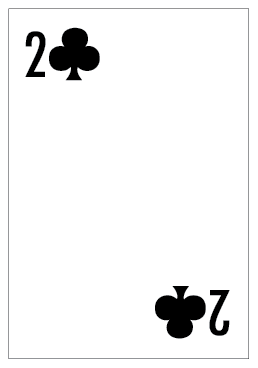
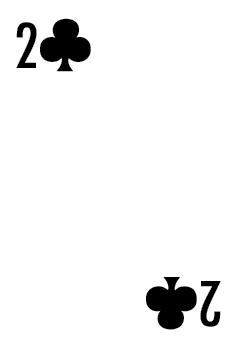
card set to contain, responsive design updated

Changed region(s): [[0.0292, 0.0, 0.9917, 1.0]]

diff --git a/styles.css b/styles.css
@@ -13,11 +13,13 @@ img {
 /* Page styling */
 body {
     margin: auto;
-    padding: 0;
+    width: 100%;
+    height: auto;
+    padding: 1em;
     background-image: url("images/studioBG1.png");
     background-size: cover;
-    background-position:center;
-    background-repeat: no-repeat;
+    background-position:center center;
+    background-repeat: repeat;
 }
 
 body.switch {
@@ -47,27 +49,46 @@ header {
     margin: 0 auto 2em auto;
 }
 
-header, body {
+header, footer {
+    top: 0;
     text-align: center;
+    padding: 25px;
+    margin: auto;
+    position: relative;
+}
+
+footer p {
+    margin: none;
+    padding: none;
 }
 
 #banner {
+
+    padding: 20px;
+    width: auto;
+    height: auto;
+    position: absolute;
+
     position: relative; 
-    margin: auto;
-    
-    background-image: url("images/studioBG1.png");
+    width: 100%;
+    height: 25%;
+
+    background-image: url("images/studioBGPure2.png");
+
     background-size: cover;
     background-position:center;
     background-repeat: no-repeat;
 
     align-items: center;
 	place-items: center;
+
+    transition: all 2s;
 }
 
 #banner.switch {
-    background-image: url("images/studioBG2.png");
+    background-image: url("images/studioBGPure1.png");
+    
     color: rgb(235, 235, 235);
-    transition: all 2s;
 }
 
 main {
@@ -76,46 +97,30 @@ main {
     margin: 1em auto;
 }
 
-main section {
-    display: flex;
-    flex-direction: column;
-    justify-content: center;
-
-    aspect-ratio: 2/3;
-    width: 100%;
-    max-width: 300px;
-
-    border: 2px rgb(0, 0, 0) dashed;
-    border-radius: 15px;
-    padding: 1em;
-
-    position: relative;
-}
-
 #projects {
         background-image: url("images/cardSpade2.png");
-        background-size: cover;
+        background-size: contain;
         background-position:center;
         background-repeat: no-repeat;
 }
 
 #research {
         background-image: url("images/cardQ.png");
-        background-size: cover;
+        background-size: contain;
         background-position:center;
         background-repeat: no-repeat;
 }
 
 #development {
         background-image: url("images/cardClub2.png");
-        background-size: cover;
+        background-size: contain;
         background-position:center;
         background-repeat: no-repeat;
 }
 
 #capstone {
         background-image: url("images/card6.png");
-        background-size: cover;
+        background-size: contain;
         background-position:center;
         background-repeat: no-repeat;
 }
@@ -130,8 +135,39 @@ nav ol, nav ul {
     padding-left: 0;
 }
 
-section {
-    margin-top: 1em;
+main section {
+    display: flex;
+    flex-direction: column;
+    justify-content: center;
+    text-align: center;
+
+    aspect-ratio: 2/3;
+    width: 100%;
+    max-width: 300px;
+
+    /*border: 2px rgb(0, 0, 0) dashed;*/
+    border-radius: 15px;
+
+    position: relative;
+    transition: all 1s;
+}
+
+h1, h2, h3 {
+    font-family: "Rubik 80s Fade", system-ui;;
+    font-weight: 400;
+    font-style: normal;
+}
+
+h2 {
+    font-family: "Rubik 80s Fade", system-ui;;
+    font-weight: 300;
+    font-style: normal;
+}
+
+h3 {
+    font-family: "Rubik 80s Fade", system-ui;;
+    font-weight: 200;
+    font-style: normal;
 }
 
 section a {
@@ -139,20 +175,34 @@ section a {
     display: inline-block;
     padding: .5em;
     color: orange;
+    border-radius: 50%;
+
+    transition: all 1s;
+    transition: border-radius 0.25s ease;
 }
 
 section a:hover {
     background-color: orange;
     color: #333;
+    border-radius: 0%;
+
+    transition: all 0.25s;
+    transition: border-radius 0.25s ease;
+}
+
+section.switch h3 {
+    color: #bcbcbc;
 }
 
 section.switch a {
-    color: #333;
+    color: #57a2ff;
+    transition: all 1s;
 }
 
 section.switch a:hover {
     background-color: #333;
     color: rgb(235, 235, 235);
+    transition: all 0.25s;
 }
 
 button {
@@ -160,8 +210,12 @@ button {
     top: 20px;
     right: 20px;
     padding: 12px;
-    background-color: orange;
-    color: #333;
+    background-image: url("images/coinSwitch.png");
+    background-size: contain;
+    background-repeat: no-repeat;
+    background-position: center;
+    background-color: transparent;
+
     border: 1px solid transparent;
 }
 
@@ -182,41 +236,84 @@ button.switch:hover {
 
 body.switch {
     background-image: url("images/studioBG2.png");
+    transition: all 1s;
+
 }
 
 #projects.switch {
     background-image: url("images/card1.png");
+    transition: all 1s;
 }
 
 #research.switch {
     background-image: url("images/card5.png");
+    transition: all 1s;
 }
 
 #development.switch {
     background-image: url("images/card7.png");
+    transition: all 1s;
 }
 
 #capstone.switch {
     background-image: url("images/card8.png");
+    transition: all 1s;
 }
 
-@media only screen and (min-width: 600px) {
+@media only screen and (min-width: 1000px) {
 
-    h1, h2, h3 {
-        font-family: "Rubik 80s Fade", system-ui;;
-        font-weight: 400;
-        font-style: normal;
+    h1 {
+        font-size: clamp(1rem, 3rem, 5rem);
     }
 
     h2 {
-        font-family: "Rubik 80s Fade", system-ui;;
-        font-weight: 300;
-        font-style: normal;
+        font-size: clamp(0.75rem, 1.5rem, 2.25rem);
     }
 
     h3 {
-        font-family: "Rubik 80s Fade", system-ui;;
-        font-weight: 200;
-        font-style: normal;
+        margin-top: 8vh;
+        margin-bottom: 0;
+        font-size: clamp(0.1rem, 1rem, 2rem);
+    }
+
+    .toolKit {
+        margin-top: 5vh
+    }
+
+    section nav {
+        margin-top: -5px;
+
+    }
+
+    section nav a {
+        font-size: clamp(0.25rem, 0.75rem, 1.75rem);
+    }
+}
+
+@media only screen and (max-width: 1000px) {
+    h1 {
+        font-size: clamp(1rem, 3rem, 5rem);
+    }
+
+    h2 {
+        font-size: clamp(0.75rem, 1.5rem, 2.25rem);
+    }
+
+    h3 {
+        margin-top: 5vh;
+        font-size: clamp(0.25rem, 0.75rem, 2rem);
+    }
+
+    .toolKit {
+        margin-top: 5vh
+    }
+
+    section nav {
+        margin-top: -20px;
+        margin-bottom: -20px;
+    }
+
+    section nav a {
+        font-size: clamp(0.1rem, 0.65rem, 1.75rem);
     }
 }

diff --git a/index.html b/index.html
@@ -30,11 +30,12 @@
 
         <header>
 
-            <h1>Hanjie Chen</h1>
-
-            <h2>DES 157B - Interactive Media III - SQ 2026 002</h2>
-
             <div id="banner">
+
+                <h1>Hanjie Chen</h1>
+
+                <h2>DES 157B - Interactive Media III - SQ 2026 002</h2>
+
             <!--this is for the interactive banner-->
             </div>
 
@@ -54,7 +55,7 @@
                         </ol>
                     </nav>
 
-                    <h3>Toolkit</h3>
+                    <h3 class="toolKit">Toolkit</h3>
                     <nav>
                         <ol>
                             <li><a href="#">Friends List</a></li>
